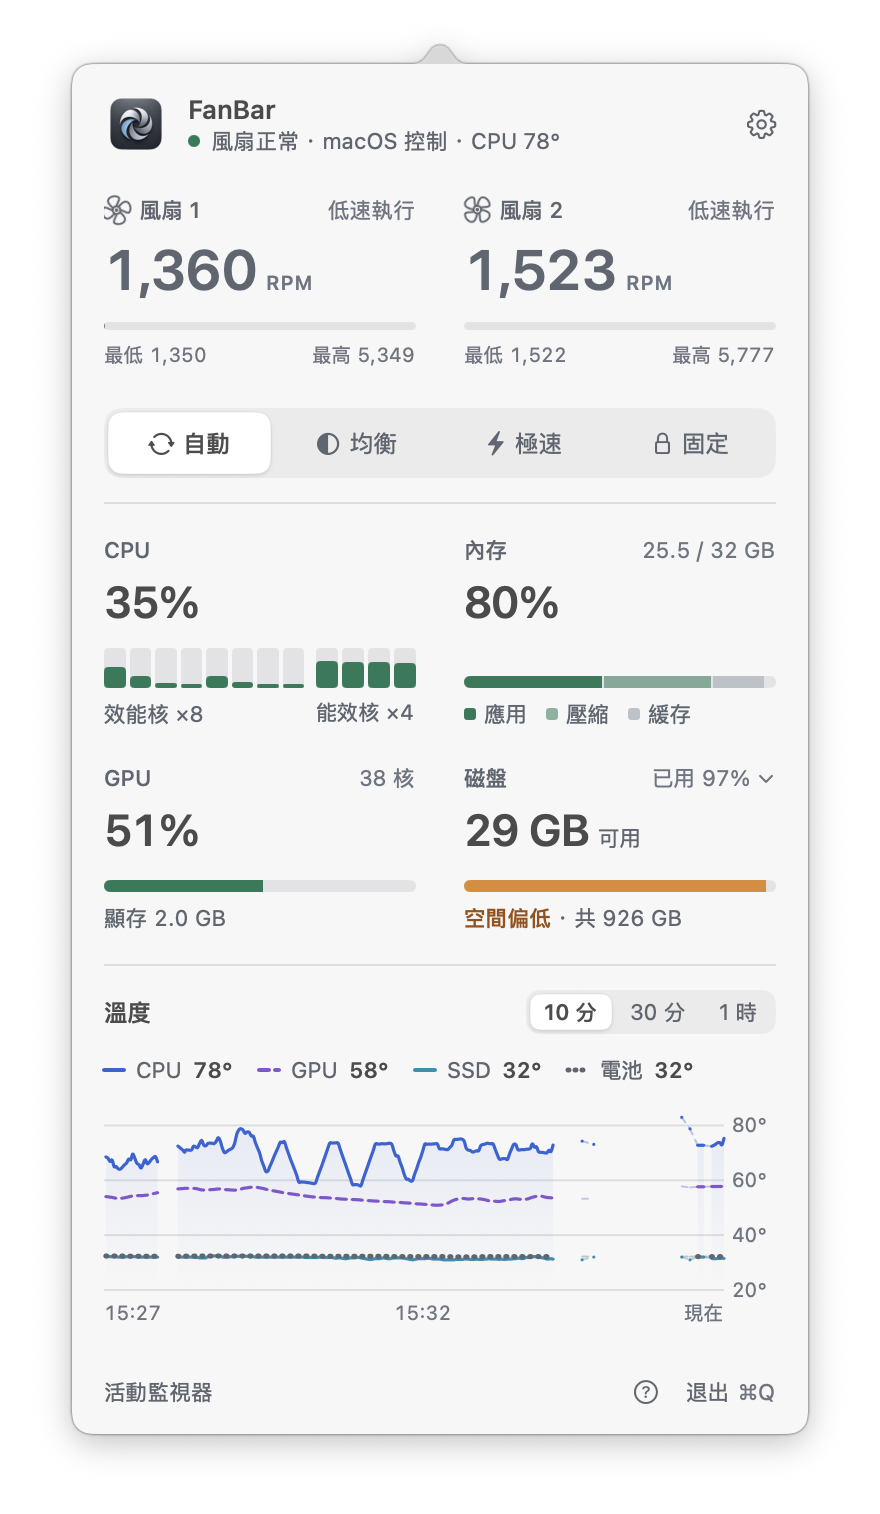
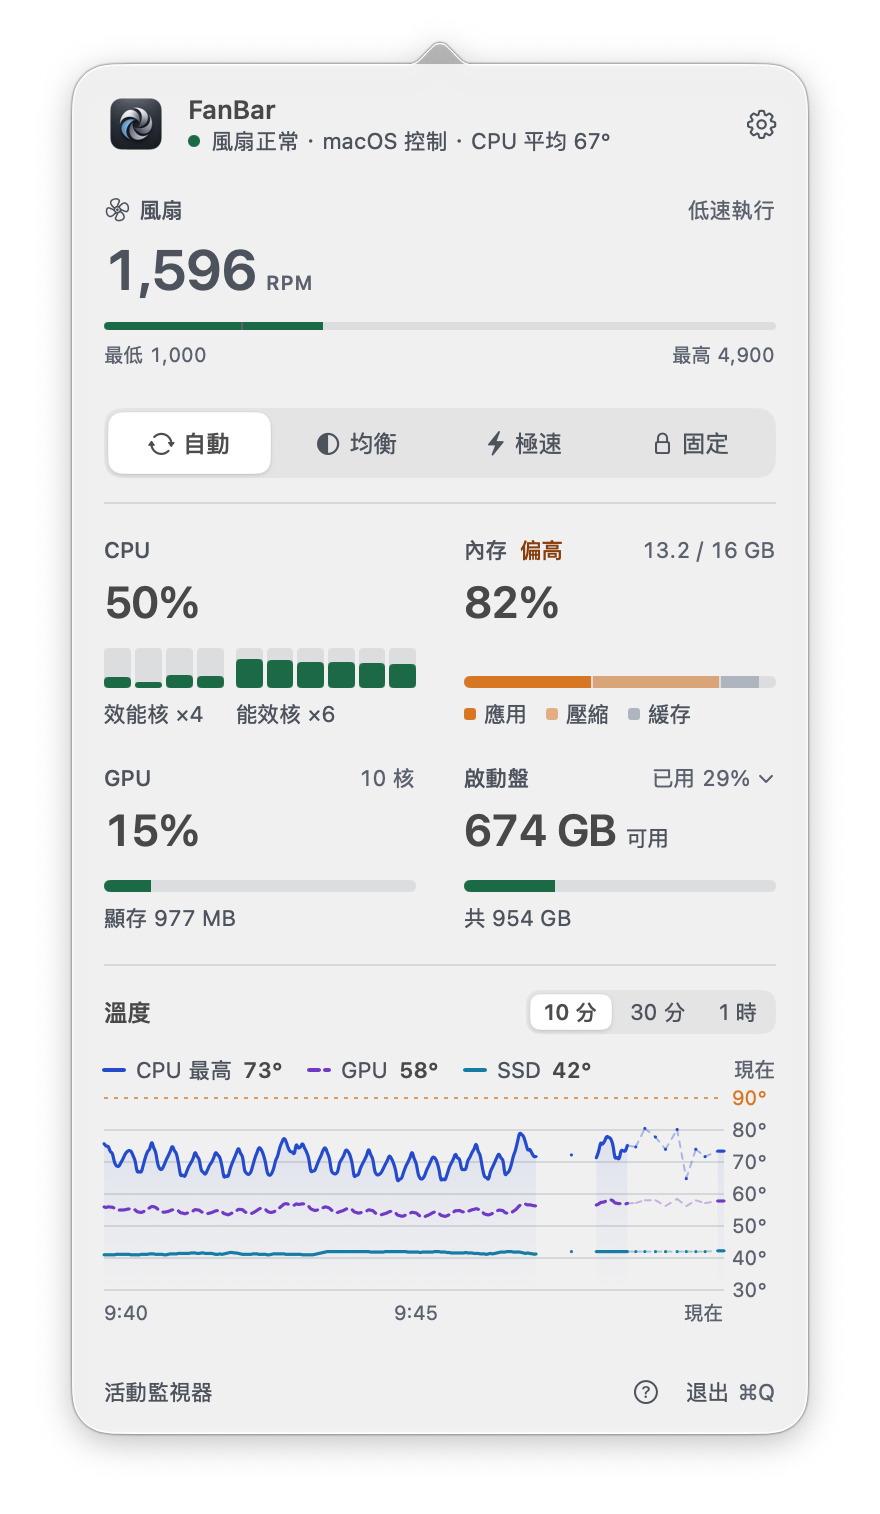
docs: show light and dark screenshots side by side in the READMEs
Recapture every README screenshot from the released 0.6.3 in light and
dark appearance, for all six languages including French: the menu panel
and the Cooling, Appearance and General settings tabs, 48 PNGs. The
previous light captures predated the Log tab and came from a different
Mac, so they are replaced rather than paired with new dark ones.

Each README now shows each screen as a Light / Dark table with localized
column headers, and README.fr.md uses French captures instead of the
English ones. docs/screenshots/README.md records how the captures were
made: an isolated copy of the release app so user preferences stayed
untouched, launch arguments for language and tab, and macOS Dark Mode
for the dark set, since launch arguments cannot switch the appearance.

diff --git a/docs/screenshots/README.md b/docs/screenshots/README.md
@@ -1,14 +1,16 @@
 # README screenshots
 
-The menu, Cooling, and General PNGs were recaptured on October 19, 2026 from a local build of the `codex/menu-panel-glass` branch, so they show the redesigned menu panel (fan status header, speed bands, level-colored resources) and the matching settings. The Appearance PNGs are from the October 16, 2026 capture of `feature/custom-presets`; that pane did not change.
+All PNGs were recaptured on October 20, 2026 from the released FanBar 0.6.3 on a Mac mini (M4, one fan) running macOS 27, in light and dark appearance. The READMEs show each light capture beside its dark counterpart in a table.
 
-Each language (`en`, `zh-CN`, `zh-TW`, `ja`, `ru`) has four captures:
+Each language (`en`, `zh-CN`, `zh-TW`, `ja`, `ru`, `fr`) has four captures per appearance (`light`, `dark`):
 
-- `fanbar-menu-light-{language}.png`: menu-bar popover with real sensor readings and macOS automatic fan control.
-- `fanbar-settings-cooling-light-{language}.png`: cooling presets and temperature curve editor.
-- `fanbar-settings-appearance-light-{language}.png`: menu-bar appearance and app icon preferences.
-- `fanbar-settings-general-light-{language}.png`: device compatibility, control service, notifications, and app preferences.
+- `fanbar-menu-{appearance}-{language}.png`: menu-bar popover with real sensor readings and macOS automatic fan control.
+- `fanbar-settings-cooling-{appearance}-{language}.png`: cooling presets and temperature curve editor.
+- `fanbar-settings-appearance-{appearance}-{language}.png`: menu-bar appearance and app icon preferences.
+- `fanbar-settings-general-{appearance}-{language}.png`: control service, notifications, alert sound, and app preferences.
 
-All final PNGs are real macOS window screenshots, including window chrome and transparent shadows. Settings screenshots show the initial viewport; longer panes scroll. No interface or sensor values were generated or retouched.
+All final PNGs are real macOS window screenshots, including window chrome and transparent shadows, taken with `screencapture -l` (menu 880×1514, settings 1344×1600 pixels). Settings screenshots show the initial viewport; longer panes scroll. No interface or sensor values were generated or retouched.
 
-Capture processes used temporary launch arguments (`-fanbar.language`, `-fanbar.settingsSelectedTab`) with light appearance and the classic app icon. The October 19 menu captures show live sensor history, so the temperature chart can include short gaps where the app was relaunched. They also hid saved custom presets and showed the default Balanced selection with Balanced and Extreme in the menu panel, so every language shows the same state. The user's saved preferences and the installed FanBar instance were left unchanged. The older JPEG files remain for historical references.
+The captures ran a copy of the release app under a separate bundle identifier, so the user's saved preferences and the installed FanBar were left unchanged. Its preferences used the Ringed menu bar icon, CPU temperature in the menu bar, the Classic app icon, no custom presets, and Balanced and Extreme in the menu panel; the temperature history was copied from the installed app so the chart shows real data. Launch arguments set the language (`-fanbar.language`), the settings tab (`-fanbar.settingsSelectedTab`) and, for light captures, `-NSRequiresAquaSystemAppearance YES`; `--show-panel` opened the popover. Launch arguments cannot switch FanBar to dark appearance, so the dark captures were taken with macOS itself in Dark Mode, a few minutes after the light ones; their readings differ slightly.
+
+The older JPEG files remain for historical references.

diff --git a/README.ja.md b/README.ja.md
@@ -50,21 +50,57 @@ FanBar は macOS 11 Big Sur 以降に対応し、Apple Silicon Mac と、AppleSM
 
 ## 📸 スクリーンショット
 
-ライトモードの日本語インターフェイスです。**設定 → 一般 → 表示言語** から、再起動せずに英語、簡体字中国語、繁体字中国語、ロシア語、フランス語に切り替えられます。
+ライトモードとダークモードの日本語インターフェイスです。**設定 → 一般 → 表示言語** から、再起動せずに英語、簡体字中国語、繁体字中国語、ロシア語、フランス語に切り替えられます。
 
-<img src="docs/screenshots/fanbar-menu-light-ja.png" alt="FanBar のメニューバーポップオーバー（日本語）" width="456">
+<table>
+  <tr>
+    <th>ライト</th>
+    <th>ダーク</th>
+  </tr>
+  <tr>
+    <td><img src="docs/screenshots/fanbar-menu-light-ja.png" alt="FanBar のメニューバーポップオーバー（日本語） (ライト)" width="100%"></td>
+    <td><img src="docs/screenshots/fanbar-menu-dark-ja.png" alt="FanBar のメニューバーポップオーバー（日本語） (ダーク)" width="100%"></td>
+  </tr>
+</table>
 
 「冷却」タブでは、パネルの各プリセットに専用の温度→回転数カーブを編集できます。
 
-<img src="docs/screenshots/fanbar-settings-cooling-light-ja.png" alt="FanBar の冷却設定（日本語）" width="640">
+<table>
+  <tr>
+    <th>ライト</th>
+    <th>ダーク</th>
+  </tr>
+  <tr>
+    <td><img src="docs/screenshots/fanbar-settings-cooling-light-ja.png" alt="FanBar の冷却設定（日本語） (ライト)" width="100%"></td>
+    <td><img src="docs/screenshots/fanbar-settings-cooling-dark-ja.png" alt="FanBar の冷却設定（日本語） (ダーク)" width="100%"></td>
+  </tr>
+</table>
 
 「外観」では、メニューバーのアイコンと表示内容を選び、メニューバーを模したプレビューでその場で確認できます。
 
-<img src="docs/screenshots/fanbar-settings-appearance-light-ja.png" alt="FanBar の外観設定（日本語）" width="640">
+<table>
+  <tr>
+    <th>ライト</th>
+    <th>ダーク</th>
+  </tr>
+  <tr>
+    <td><img src="docs/screenshots/fanbar-settings-appearance-light-ja.png" alt="FanBar の外観設定（日本語） (ライト)" width="100%"></td>
+    <td><img src="docs/screenshots/fanbar-settings-appearance-dark-ja.png" alt="FanBar の外観設定（日本語） (ダーク)" width="100%"></td>
+  </tr>
+</table>
 
 「一般」では、この Mac の互換性、制御サービスの状態、自動復帰、高温通知、表示言語、ログイン項目、アップデートを確認・設定できます。「ログ」では温度とファン回転数を CSV に記録できます。長い設定ページはスクロールできます。
 
-<img src="docs/screenshots/fanbar-settings-general-light-ja.png" alt="FanBar の一般設定（日本語）" width="640">
+<table>
+  <tr>
+    <th>ライト</th>
+    <th>ダーク</th>
+  </tr>
+  <tr>
+    <td><img src="docs/screenshots/fanbar-settings-general-light-ja.png" alt="FanBar の一般設定（日本語） (ライト)" width="100%"></td>
+    <td><img src="docs/screenshots/fanbar-settings-general-dark-ja.png" alt="FanBar の一般設定（日本語） (ダーク)" width="100%"></td>
+  </tr>
+</table>
 
 ## ✨ 主な機能
 

diff --git a/README.fr.md b/README.fr.md
@@ -70,21 +70,57 @@ Le site officiel publie un fichier [llms.txt](https://getfanbar.com/llms.txt?utm
 
 ## 📸 Captures d’écran
 
-Les captures ci-dessous montrent l’interface anglaise en apparence claire ; l’interface est aussi disponible en français. Changez de langue dans **Réglages → Général → Langue de l’interface**, sans redémarrer.
+Interface française en apparence claire et sombre. Passez à l’anglais, au chinois simplifié ou traditionnel, au japonais ou au russe dans **Réglages → Général → Langue de l’interface**, sans redémarrer.
 
-<img src="docs/screenshots/fanbar-menu-light-en.png" alt="Fenêtre de FanBar dans la barre des menus (interface anglaise)" width="456">
+<table>
+  <tr>
+    <th>Clair</th>
+    <th>Sombre</th>
+  </tr>
+  <tr>
+    <td><img src="docs/screenshots/fanbar-menu-light-fr.png" alt="Fenêtre de FanBar dans la barre des menus (Clair)" width="100%"></td>
+    <td><img src="docs/screenshots/fanbar-menu-dark-fr.png" alt="Fenêtre de FanBar dans la barre des menus (Sombre)" width="100%"></td>
+  </tr>
+</table>
 
 Refroidissement associe à chaque profil du panneau sa propre courbe température → vitesse modifiable.
 
-<img src="docs/screenshots/fanbar-settings-cooling-light-en.png" alt="Réglages de refroidissement de FanBar (interface anglaise)" width="640">
+<table>
+  <tr>
+    <th>Clair</th>
+    <th>Sombre</th>
+  </tr>
+  <tr>
+    <td><img src="docs/screenshots/fanbar-settings-cooling-light-fr.png" alt="Réglages de refroidissement de FanBar (Clair)" width="100%"></td>
+    <td><img src="docs/screenshots/fanbar-settings-cooling-dark-fr.png" alt="Réglages de refroidissement de FanBar (Sombre)" width="100%"></td>
+  </tr>
+</table>
 
 Apparence permet de choisir l’icône de la barre des menus et ce qu’affiche l’élément d’état, avec un aperçu en direct dans une barre des menus simulée.
 
-<img src="docs/screenshots/fanbar-settings-appearance-light-en.png" alt="Réglages d’apparence de FanBar (interface anglaise)" width="640">
+<table>
+  <tr>
+    <th>Clair</th>
+    <th>Sombre</th>
+  </tr>
+  <tr>
+    <td><img src="docs/screenshots/fanbar-settings-appearance-light-fr.png" alt="Réglages d’apparence de FanBar (Clair)" width="100%"></td>
+    <td><img src="docs/screenshots/fanbar-settings-appearance-dark-fr.png" alt="Réglages d’apparence de FanBar (Sombre)" width="100%"></td>
+  </tr>
+</table>
 
 Général regroupe la vérification locale de compatibilité, l’état du service de contrôle, le retour automatique, les notifications, la langue, l’ouverture à la connexion et les mises à jour. Journal enregistre les températures et la vitesse des ventilateurs au format CSV. Les pages de réglages longues défilent.
 
-<img src="docs/screenshots/fanbar-settings-general-light-en.png" alt="Réglages généraux de FanBar (interface anglaise)" width="640">
+<table>
+  <tr>
+    <th>Clair</th>
+    <th>Sombre</th>
+  </tr>
+  <tr>
+    <td><img src="docs/screenshots/fanbar-settings-general-light-fr.png" alt="Réglages généraux de FanBar (Clair)" width="100%"></td>
+    <td><img src="docs/screenshots/fanbar-settings-general-dark-fr.png" alt="Réglages généraux de FanBar (Sombre)" width="100%"></td>
+  </tr>
+</table>
 
 ## ✨ Points forts
 

diff --git a/README.zh-CN.md b/README.zh-CN.md
@@ -68,21 +68,57 @@ FanBar 是一款免费开源的原生 macOS 菜单栏应用，用于查看 CPU/G
 
 ## 📸 截图
 
-以下为浅色外观下的简体中文界面。可在 **设置 → 通用 → 界面语言** 中切换到英文、繁体中文、日语、俄语或法语，无需重启。
+以下为浅色与深色外观下的简体中文界面。可在 **设置 → 通用 → 界面语言** 中切换到英文、繁体中文、日语、俄语或法语，无需重启。
 
-<img src="docs/screenshots/fanbar-menu-light-zh-CN.png" alt="FanBar 简体中文菜单栏面板" width="456">
+<table>
+  <tr>
+    <th>浅色</th>
+    <th>深色</th>
+  </tr>
+  <tr>
+    <td><img src="docs/screenshots/fanbar-menu-light-zh-CN.png" alt="FanBar 简体中文菜单栏面板 (浅色)" width="100%"></td>
+    <td><img src="docs/screenshots/fanbar-menu-dark-zh-CN.png" alt="FanBar 简体中文菜单栏面板 (深色)" width="100%"></td>
+  </tr>
+</table>
 
 「散热」页为每个面板预设提供独立的温度→转速曲线，可直接拖动控制点编辑。
 
-<img src="docs/screenshots/fanbar-settings-cooling-light-zh-CN.png" alt="FanBar 简体中文散热设置" width="640">
+<table>
+  <tr>
+    <th>浅色</th>
+    <th>深色</th>
+  </tr>
+  <tr>
+    <td><img src="docs/screenshots/fanbar-settings-cooling-light-zh-CN.png" alt="FanBar 简体中文散热设置 (浅色)" width="100%"></td>
+    <td><img src="docs/screenshots/fanbar-settings-cooling-dark-zh-CN.png" alt="FanBar 简体中文散热设置 (深色)" width="100%"></td>
+  </tr>
+</table>
 
 「外观」页可选择菜单栏图标与显示内容，并通过模拟菜单栏实时预览。
 
-<img src="docs/screenshots/fanbar-settings-appearance-light-zh-CN.png" alt="FanBar 简体中文外观设置" width="640">
+<table>
+  <tr>
+    <th>浅色</th>
+    <th>深色</th>
+  </tr>
+  <tr>
+    <td><img src="docs/screenshots/fanbar-settings-appearance-light-zh-CN.png" alt="FanBar 简体中文外观设置 (浅色)" width="100%"></td>
+    <td><img src="docs/screenshots/fanbar-settings-appearance-dark-zh-CN.png" alt="FanBar 简体中文外观设置 (深色)" width="100%"></td>
+  </tr>
+</table>
 
 「通用」页包含本机兼容性检查、控制服务状态、自动恢复、通知、语言、登录启动与更新。「日志」页可把温度和风扇转速记录为 CSV。较长的设置页面可向下滚动。
 
-<img src="docs/screenshots/fanbar-settings-general-light-zh-CN.png" alt="FanBar 简体中文通用设置" width="640">
+<table>
+  <tr>
+    <th>浅色</th>
+    <th>深色</th>
+  </tr>
+  <tr>
+    <td><img src="docs/screenshots/fanbar-settings-general-light-zh-CN.png" alt="FanBar 简体中文通用设置 (浅色)" width="100%"></td>
+    <td><img src="docs/screenshots/fanbar-settings-general-dark-zh-CN.png" alt="FanBar 简体中文通用设置 (深色)" width="100%"></td>
+  </tr>
+</table>
 
 ## ✨ 亮点
 

diff --git a/README.md b/README.md
@@ -70,21 +70,57 @@ The official site publishes a concise [llms.txt](https://getfanbar.com/llms.txt?
 
 ## 📸 Screenshots
 
-English interface in light appearance. Switch to Simplified Chinese, Traditional Chinese, Japanese, Russian, or French from **Settings → General → Interface language** without restarting.
+English interface in light and dark appearance. Switch to Simplified Chinese, Traditional Chinese, Japanese, Russian, or French from **Settings → General → Interface language** without restarting.
 
-<img src="docs/screenshots/fanbar-menu-light-en.png" alt="FanBar English menu-bar popover" width="456">
+<table>
+  <tr>
+    <th>Light</th>
+    <th>Dark</th>
+  </tr>
+  <tr>
+    <td><img src="docs/screenshots/fanbar-menu-light-en.png" alt="FanBar English menu-bar popover (Light)" width="100%"></td>
+    <td><img src="docs/screenshots/fanbar-menu-dark-en.png" alt="FanBar English menu-bar popover (Dark)" width="100%"></td>
+  </tr>
+</table>
 
 Cooling gives each panel preset its own editable temperature→RPM curve.
 
-<img src="docs/screenshots/fanbar-settings-cooling-light-en.png" alt="FanBar English cooling settings" width="640">
+<table>
+  <tr>
+    <th>Light</th>
+    <th>Dark</th>
+  </tr>
+  <tr>
+    <td><img src="docs/screenshots/fanbar-settings-cooling-light-en.png" alt="FanBar English cooling settings (Light)" width="100%"></td>
+    <td><img src="docs/screenshots/fanbar-settings-cooling-dark-en.png" alt="FanBar English cooling settings (Dark)" width="100%"></td>
+  </tr>
+</table>
 
 Appearance chooses the menu bar icon and what the status item shows, previewed live in a simulated menu bar.
 
-<img src="docs/screenshots/fanbar-settings-appearance-light-en.png" alt="FanBar English appearance settings" width="640">
+<table>
+  <tr>
+    <th>Light</th>
+    <th>Dark</th>
+  </tr>
+  <tr>
+    <td><img src="docs/screenshots/fanbar-settings-appearance-light-en.png" alt="FanBar English appearance settings (Light)" width="100%"></td>
+    <td><img src="docs/screenshots/fanbar-settings-appearance-dark-en.png" alt="FanBar English appearance settings (Dark)" width="100%"></td>
+  </tr>
+</table>
 
 General includes local device compatibility checks, control-service status, automatic restore, notifications, language, login, and updates. Log records temperatures and fan speeds to CSV. Longer settings panes scroll.
 
-<img src="docs/screenshots/fanbar-settings-general-light-en.png" alt="FanBar English general settings" width="640">
+<table>
+  <tr>
+    <th>Light</th>
+    <th>Dark</th>
+  </tr>
+  <tr>
+    <td><img src="docs/screenshots/fanbar-settings-general-light-en.png" alt="FanBar English general settings (Light)" width="100%"></td>
+    <td><img src="docs/screenshots/fanbar-settings-general-dark-en.png" alt="FanBar English general settings (Dark)" width="100%"></td>
+  </tr>
+</table>
 
 ## ✨ Highlights
 
